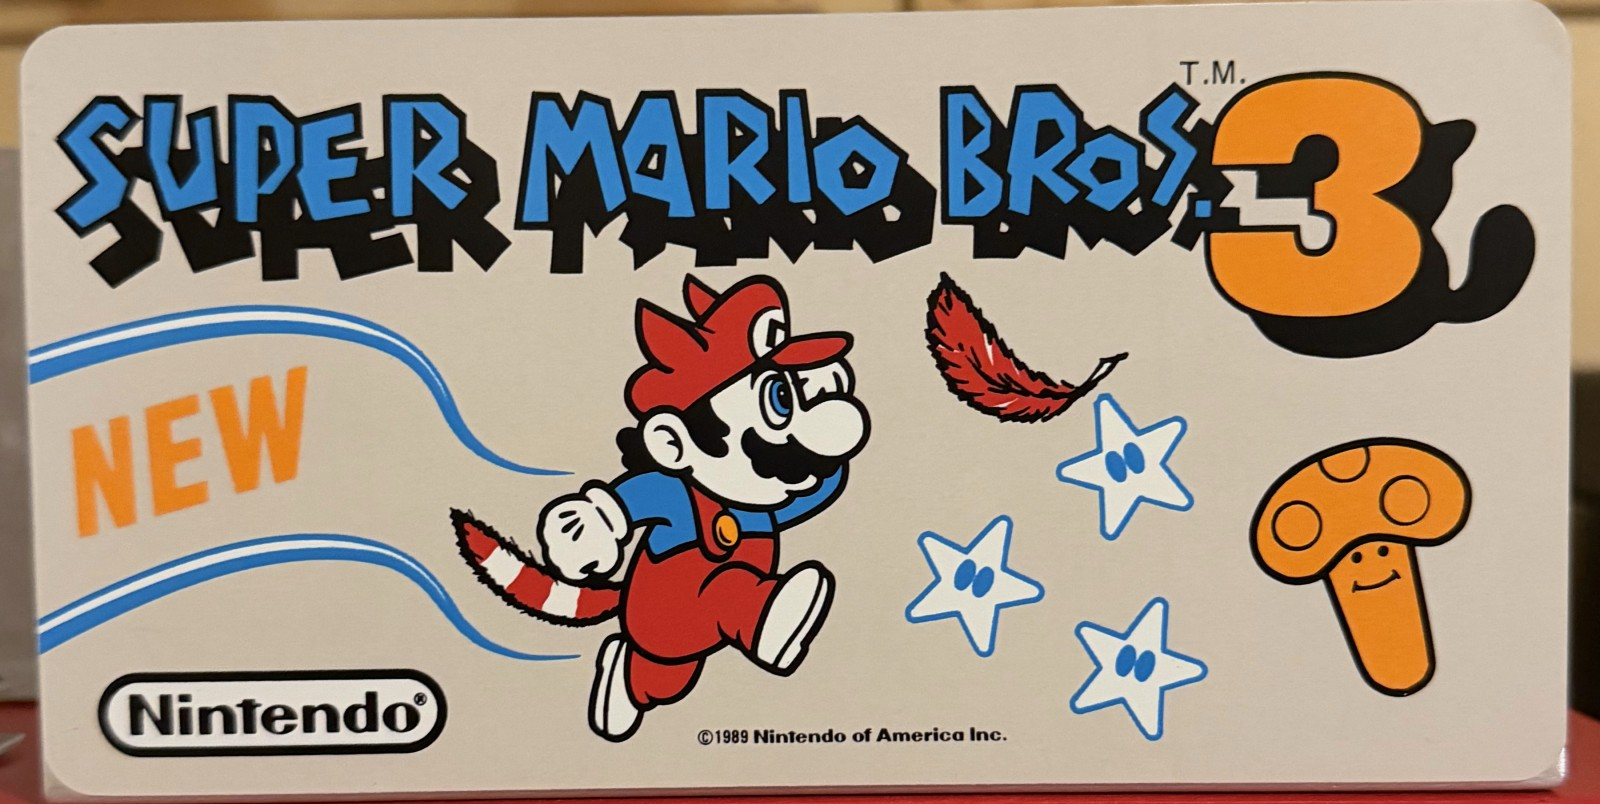
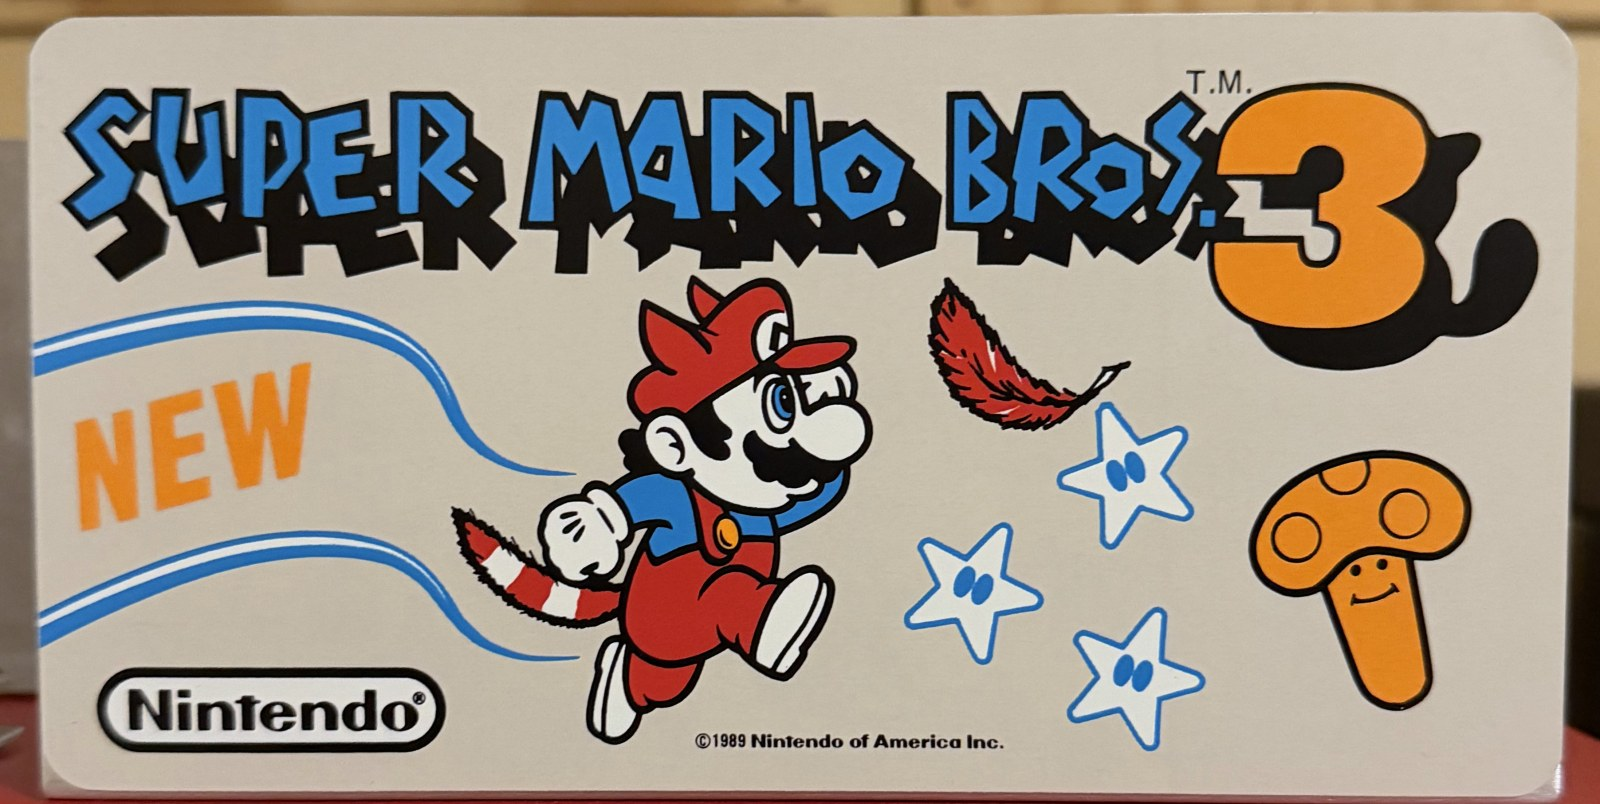
Level the Super Mario Bros. 3 topper: it shipped unrotated and sat 0.86 degrees off
SMB3, SMB2 and Contra were left unrotated in the 2026-08-29 recrop because the
printed-horizontals tilt method returned confidence below the 2.0 floor on all
three. Measuring the panel's own physical top and bottom edges in the original
instead (RANSAC line fit, 2.5px RMS) gives a reliable angle where the printed
artwork does not: SMB3 -0.86, SMB2 -0.34, Contra -0.16.

Only SMB3 is off enough to see. Recropped from IMG_3867 with the documented
six-step recipe, rotation from the panel edge, colour held constant (same batch
WB gain, exposure solved so p95 L matches the file it replaces: 208 -> 207,
median L unchanged at 194). Residual tilt on the new tile is +0.10 degrees.

SMB2 and Contra were measured and left alone -- both are already within 0.13
degrees of level in the shipped tiles.

Refs bumped to ?v=3.

diff --git a/signage.html b/signage.html
@@ -129,7 +129,7 @@
       <figure class="shot"><img src="media/thumbs/pc10-rad-racer.jpg?v=2" data-full="media/2026/pc10-rad-racer.jpg?v=2" alt="Original Nintendo PlayChoice-10 arcade topper for Rad Racer" loading="lazy" width="800" height="402"><figcaption><b>Rad Racer</b> &mdash; The first topper to come off the <a href="wanted.html">hunt list</a></figcaption></figure>
       <figure class="shot"><img src="media/thumbs/pc10-rc-pro-am.jpg?v=2" data-full="media/2026/pc10-rc-pro-am.jpg?v=2" alt="Original Nintendo PlayChoice-10 arcade topper for R.C. Pro-Am" loading="lazy" width="800" height="402"><figcaption><b>R.C. Pro-Am</b> &mdash; Rare drew the buggy; the checkerboard runs the full width</figcaption></figure>
       <figure class="shot"><img src="media/thumbs/pc10-super-mario-bros-2.jpg?v=2" data-full="media/2026/pc10-super-mario-bros-2.jpg?v=2" alt="Original Nintendo PlayChoice-10 arcade topper for Super Mario Bros. 2" loading="lazy" width="800" height="402"><figcaption><b>Super Mario Bros. 2</b> &mdash; Mario on blue, throwing the shape of a turnip</figcaption></figure>
-      <figure class="shot"><img src="media/thumbs/pc10-super-mario-bros-3.jpg?v=2" data-full="media/2026/pc10-super-mario-bros-3.jpg?v=2" alt="Original Nintendo PlayChoice-10 arcade topper for Super Mario Bros. 3" loading="lazy" width="800" height="402"><figcaption><b>Super Mario Bros. 3</b> &mdash; Raccoon Mario, a leaf, and three stars on near-white</figcaption></figure>
+      <figure class="shot"><img src="media/thumbs/pc10-super-mario-bros-3.jpg?v=3" data-full="media/2026/pc10-super-mario-bros-3.jpg?v=3" alt="Original Nintendo PlayChoice-10 arcade topper for Super Mario Bros. 3" loading="lazy" width="800" height="402"><figcaption><b>Super Mario Bros. 3</b> &mdash; Raccoon Mario, a leaf, and three stars on near-white</figcaption></figure>
       <figure class="shot"><img src="media/thumbs/pc10-tmnt-2.jpg?v=2" data-full="media/2026/pc10-tmnt-2.jpg?v=2" alt="Original Nintendo PlayChoice-10 arcade topper for Teenage Mutant Ninja Turtles II" loading="lazy" width="800" height="402"><figcaption><b>Teenage Mutant Ninja Turtles II</b> &mdash; THE ARCADE GAME &mdash; all four turtles on Konami orange</figcaption></figure>
     </div>
   </section>
